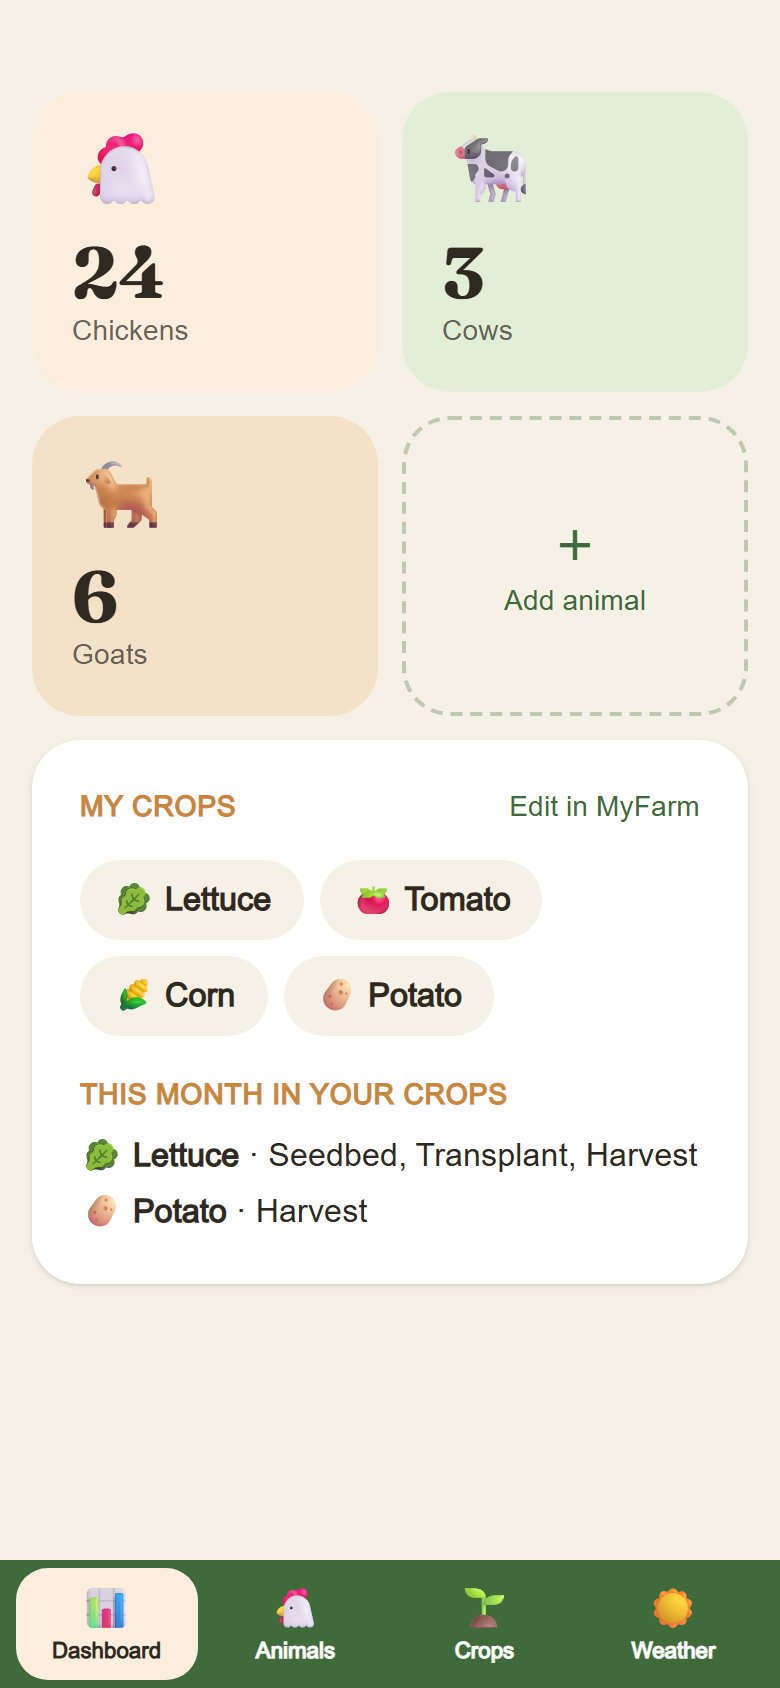
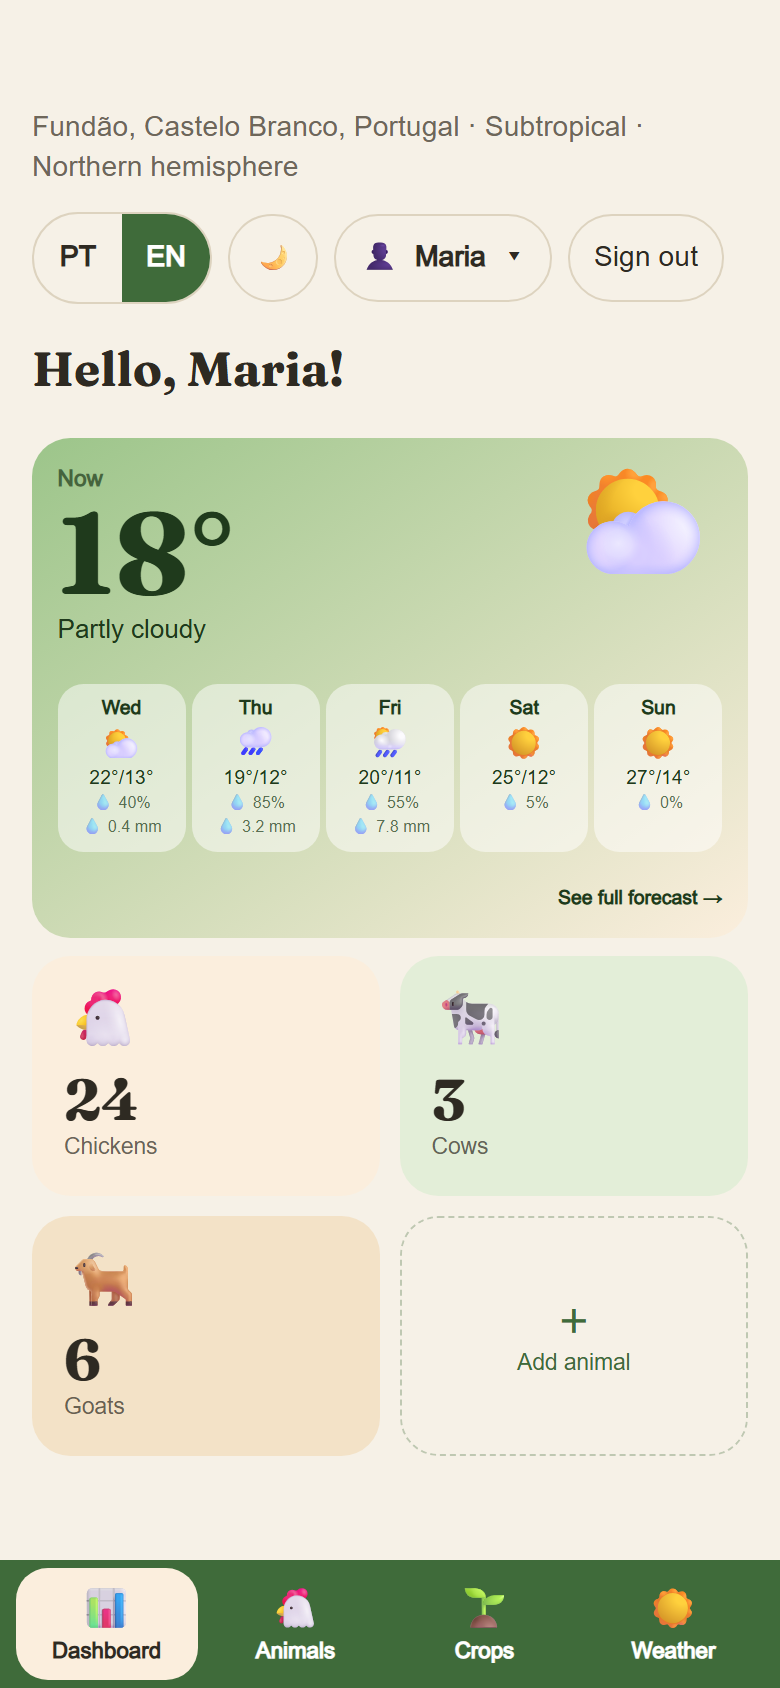
fix: cartões flutuantes sem rolagem lateral, Veja por dentro começa no celular e Painel do celular desde o topo

diff --git a/tests/screenshots/capture.spec.ts b/tests/screenshots/capture.spec.ts
@@ -35,6 +35,8 @@ const MOBILE_TOP = "body{padding-top:38px !important}body::before{content:'';pos
 
 // Os 5 cartões do Clima não cabem inteiros acima da barra de baixo; um pouco menor, cabem.
 const WEATHER_FIT = "main{zoom:.82}";
+// O Painel começa no topo (saudação e clima); um pouco menor e sem o cartão das plantações, o fim cabe inteiro acima da barra de baixo.
+const DASH_FIT = "main{zoom:.8}[data-testid=crop-chips]{display:none !important}";
 
 async function shoot(browser: Browser, errors: string[], state: Awaited<ReturnType<import("@playwright/test").BrowserContext["storageState"]>>, lang: "pt" | "en", device: keyof typeof DEVICES) {
   const cookies = [...state.cookies.filter((c) => c.name !== "nf_locale"), cookie("nf_locale", lang), cookie("nf_consent", "essential")];
@@ -44,10 +46,10 @@ async function shoot(browser: Browser, errors: string[], state: Awaited<ReturnTy
   const pages: [string, string][] = [["dashboard", "/dashboard"], ["animal", "/animals/chickens?tab=diary"], ["weather", "/weather"]];
   for (const [name, path] of pages) {
     await gotoOk(page, path);
-    await page.addStyleTag({ content: HIDE + (device === "mobile" ? MOBILE_TOP : "") + (device === "mobile" && name === "weather" ? WEATHER_FIT : "") });
+    await page.addStyleTag({ content: HIDE + (device === "mobile" ? MOBILE_TOP : "") + (device === "mobile" && name === "weather" ? WEATHER_FIT : "") + (device === "mobile" && name === "dashboard" ? DASH_FIT : "") });
     await page.waitForLoadState("networkidle");
     // Rola até o que importa, para nenhum cartão sair cortado pela barra de baixo.
-    const focus = name === "animal" ? page.getByTestId("diary-entry").first() : device !== "mobile" ? null : name === "dashboard" ? page.getByTestId("animal-tile-chickens") : name === "weather" ? page.locator("h2").first() : null;
+    const focus = name === "animal" ? page.getByTestId("diary-entry").first() : device !== "mobile" ? null : name === "weather" ? page.locator("h2").first() : null;
     await focus?.evaluate((el, dy) => { el.scrollIntoView({ block: "start" }); window.scrollBy(0, dy); }, device === "mobile" ? -46 : -20);
     await page.screenshot({ caret: "initial", path: `public/screenshots/${lang}-${name}-${device}.png` });
   }

diff --git a/src/components/ShowcaseToggle.tsx b/src/components/ShowcaseToggle.tsx
@@ -1,6 +1,6 @@
 "use client";
 import Image from "next/image";
-import { useState } from "react";
+import { useEffect, useState } from "react";
 import { BrowserFrame } from "./BrowserFrame";
 import { FloatingCard, VerifiedSeal } from "./DeviceExtras";
 import { PhoneFrame } from "./PhoneFrame";
@@ -10,6 +10,10 @@ type Shot = { name: string; path: string; card: { icon: string; title: string; t
 /** Alterna os 3 prints entre computador e celular. */
 export function ShowcaseToggle({ shots, labels }: { shots: Shot[]; labels: { desktop: string; mobile: string } }) {
   const [mode, setMode] = useState<"desktop" | "mobile">("desktop");
+  // Em tela pequena o print do computador fica minúsculo: começa no celular (o servidor renderiza "desktop", sem erro de hidratação).
+  useEffect(() => {
+    if (window.matchMedia("(max-width: 767px)").matches) setMode("mobile");
+  }, []);
   const button = (m: "desktop" | "mobile") => (
     <button
       type="button"
@@ -37,7 +41,7 @@ export function ShowcaseToggle({ shots, labels }: { shots: Shot[]; labels: { des
                 <Image src={s.src.mobile} alt={s.alt} width={780} height={1688} sizes="(min-width: 640px) 20vw, 192px" className="h-auto w-full" />
               </PhoneFrame>
             )}
-            <FloatingCard {...s.card} className={mode === "desktop" ? "-right-2 -bottom-3 w-40" : "-right-8 bottom-24 w-36"} />
+            <FloatingCard {...s.card} className={mode === "desktop" ? "-right-2 -bottom-3 w-40" : "right-0 bottom-24 w-36"} />
             {mode === "mobile" && s.name === "dashboard" && <VerifiedSeal className="-left-3 top-2 hidden sm:block" />}
             <p className="mt-10 text-center text-sm font-semibold text-muted">{s.caption}</p>
           </li>

diff --git a/src/app/(marketing)/page.tsx b/src/app/(marketing)/page.tsx
@@ -86,7 +86,7 @@ export default async function HomePage() {
               <Image src={img("dashboard", "desktop")} alt={t("heroAlt")} width={1440} height={900} sizes="(min-width: 1152px) 560px, (min-width: 768px) 45vw, 90vw" className="h-auto w-full" priority />
             </BrowserFrame>
             <FloatingCard {...card("weather")} className="-left-3 top-1/3 md:-left-8" />
-            <FloatingCard {...card("diary")} className="-top-4 right-4 md:right-24" />
+            <FloatingCard {...card("diary")} className="top-12 right-2 md:top-14 md:right-52" />
             <FloatingCard {...card("count")} className="-bottom-3 left-4 md:-left-4 md:bottom-4" />
             <div className="relative mx-auto mt-6 w-40 md:absolute md:bottom-0 md:right-0 md:mt-0 md:w-36 lg:w-40">
               <VerifiedSeal className="-left-5 -top-3 hidden sm:block" />
@@ -111,7 +111,7 @@ export default async function HomePage() {
         </ul>
       </section>
 
-      <section className="mx-auto max-w-6xl px-5 py-16 md:px-8">
+      <section className="mx-auto max-w-6xl overflow-x-clip px-5 py-16 md:px-8">
         <h2 className="text-center font-display text-3xl font-bold">{t("insideTitle")}</h2>
         <ShowcaseToggle
           labels={{ desktop: t("desktop"), mobile: t("mobile") }}

diff --git a/tests/e2e/mobile.spec.ts b/tests/e2e/mobile.spec.ts
@@ -173,3 +173,17 @@ test.describe("celular: textos compridos e menu da conta (320 px)", () => {
     }
   });
 });
+
+test.describe("landing em larguras médias", () => {
+  for (const width of [640, 700]) {
+    test(`não rola na horizontal a ${width} px (nos dois formatos do Veja por dentro)`, async ({ page }) => {
+      await page.setViewportSize({ width, height: 900 });
+      await page.goto("/");
+      await expectNoHorizontalScroll(page);
+      await page.getByRole("button", { name: "Celular" }).click();
+      await expectNoHorizontalScroll(page);
+      await page.getByRole("button", { name: "Computador" }).click();
+      await expectNoHorizontalScroll(page);
+    });
+  }
+});
